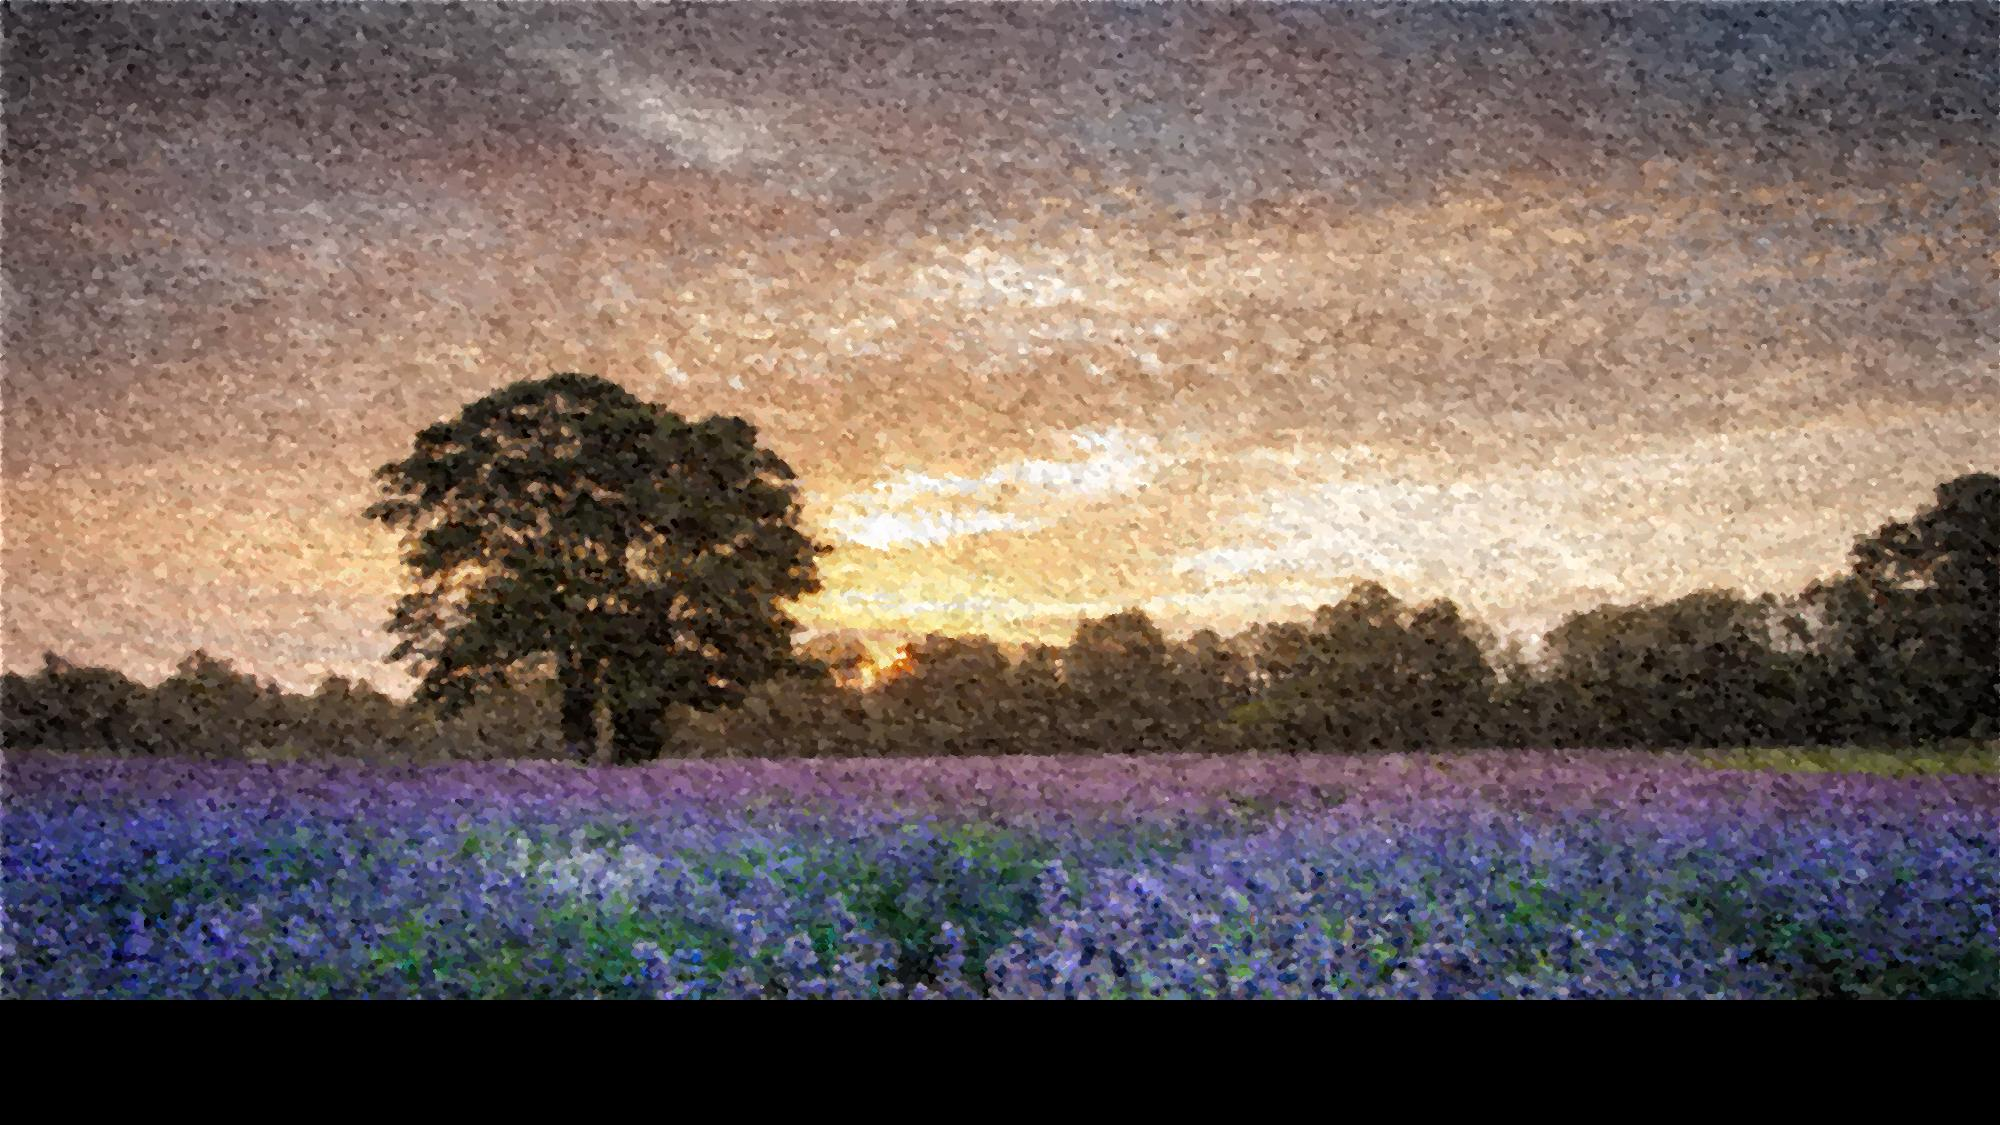
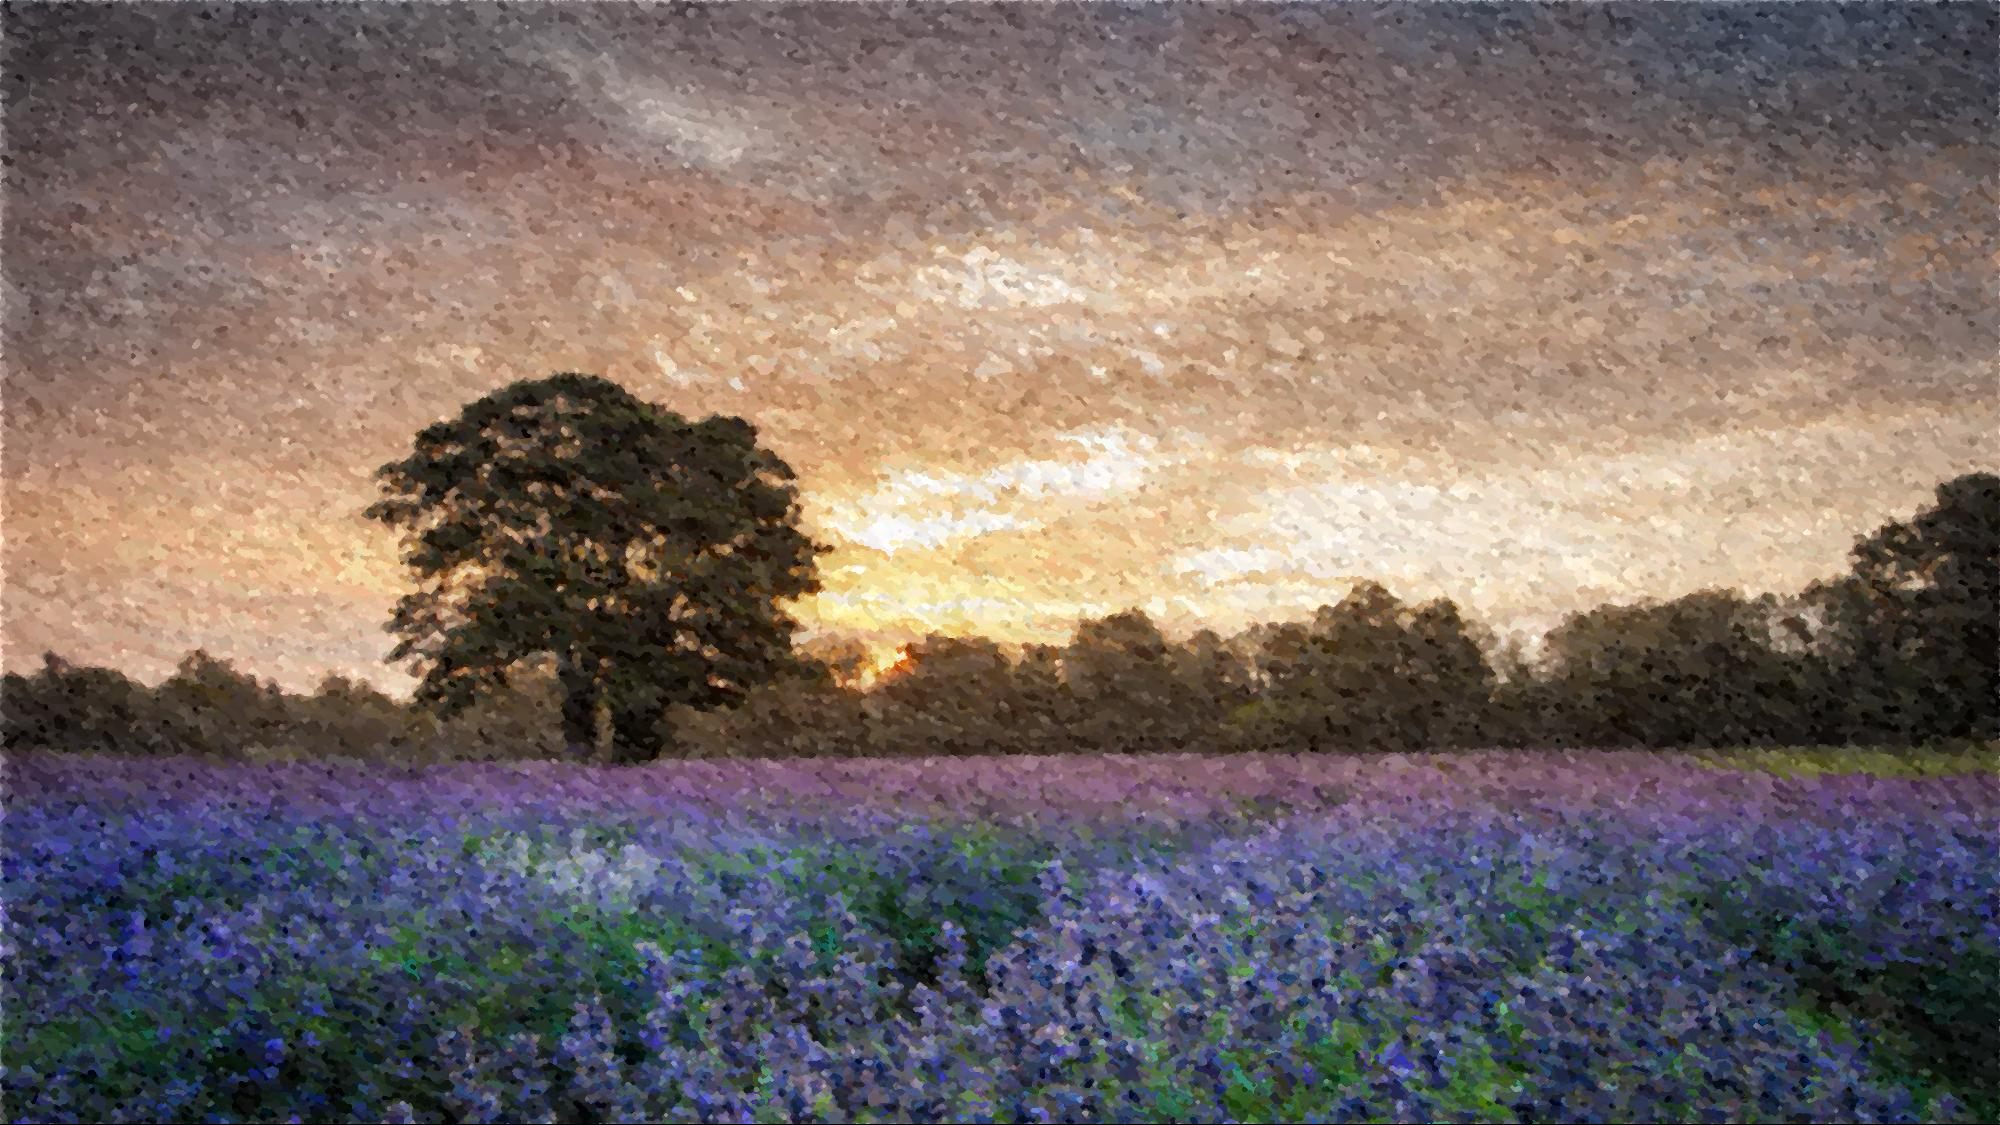
final verison

diff --git a/src/main/java/com/company/FilterParallel.java b/src/main/java/com/company/FilterParallel.java
@@ -3,52 +3,30 @@ package com.company;
 import java.awt.*;
 import java.awt.image.BufferedImage;
 import java.util.*;
-import java.util.List;
 
-/*
- * Author: Shenbaga Prasanna,IT,SASTRA University;
- * Program: Median FilterParallel To Reduce Noice in Image
- * Date: 9/7/2013
- * Logic: Captures the colour of 8 pixels around the target pixel.Including the target pixel there will be 9 pixels.
- *        Isolate the R,G,B values of each pixels and put them in an array.Sort the arrays.Get the Middle value of the array
- *        Which will be the Median of the color values in those 9 pixels.Set the color to the Target pixel and move on!
- */
+
 public class FilterParallel implements MedianFilter {
 
+    private Stopwatch stopwatch = new Stopwatch();
     private BufferedImage imageMain;
-    private int white;
-    private int black;
     private int imgWidth;
     private int imgHeight;
     private int threads;
-    private List<BufferedImage> subImages;
+    private BufferedImage[] subImages;
 
     public FilterParallel(BufferedImage imageMain, int threads) {
         this.imageMain = imageMain;
-        this.threads = threads;
         this.imgHeight = imageMain.getHeight();
         this.imgWidth = imageMain.getWidth();
-        this.subImages = new ArrayList<BufferedImage>(Collections.nCopies(threads, null));
+        this.threads = (threads < imgHeight) ? threads : imgHeight;
+        this.subImages = new BufferedImage[this.threads];
     }
 
-    public FilterParallel(BufferedImage imageMain, int threads, int white, int black) {
-        this.imageMain = imageMain;
-        this.white = white;
-        this.black = black;
-        this.threads = threads;
-        this.imgHeight = imageMain.getHeight();
-        this.imgWidth = imageMain.getWidth();
-        this.subImages = new ArrayList<BufferedImage>(Collections.nCopies(threads, null));
-    }
-
-    //dont know if correct dimensions
     public BufferedImage filterWithMedian() {
-        int subHeight = imageMain.getHeight() / threads;
+
+        int subHeight = imageMain.getHeight() / threads;   //max height of a subImg
         MedianFilterThread[] workers = new MedianFilterThread[threads];
-
-        int totalHeight = imageMain.getHeight();
-        int totalWidth = imageMain.getWidth();
-
+        //create all the threads and start them
         for (int i = 0; i < threads; i++) {
             int startHeight = subHeight * i;
             BufferedImage subImg = imageMain.getSubimage(0, startHeight, this.imgWidth, subHeight);
@@ -56,6 +34,7 @@ public class FilterParallel implements MedianFilter {
             workers[i].start();
         }
 
+        //wait for all threads
         for (MedianFilterThread worker : workers) {
             try {
                 worker.join();
@@ -65,19 +44,23 @@ public class FilterParallel implements MedianFilter {
             }
         }
 
-        //concatonate al the subimages
+
+        return concatenateImage(subImages);
+    }
+
+    private BufferedImage concatenateImage(BufferedImage[] subImages) {
         int heightCurr = 0;
         BufferedImage concatImage = new BufferedImage(imgWidth, imgHeight, BufferedImage.TYPE_INT_RGB);
         Graphics2D g2d = concatImage.createGraphics();
-        for (int j = 0; j < subImages.size(); j++) {
-            BufferedImage si = subImages.get(j);
-            g2d.drawImage(subImages.get(j), 0, heightCurr, null);
-            heightCurr += subImages.get(j).getHeight();
+        for (int j = 0; j < subImages.length; j++) {
+            g2d.drawImage(subImages[j], 0, heightCurr, null);
+            heightCurr += subImages[j].getHeight();
         }
         g2d.dispose();
 
         return concatImage;
     }
+
 
     class MedianFilterThread extends Thread {
 
@@ -116,7 +99,7 @@ public class FilterParallel implements MedianFilter {
                     this.subImg.setRGB(i, j, calcMedianPixel(i, j));
                 }
             }
-            subImages.set(this.id, this.subImg);
+            subImages[this.id] = this.subImg;
         }
 
         private int calcMedianPixel(int i, int j) {

diff --git a/src/main/java/com/company/csp/client/FilterClient.java b/src/main/java/com/company/csp/client/FilterClient.java
@@ -22,19 +22,20 @@ public class FilterClient {
     public static void main(String[] args) throws Throwable{
         System.setProperty("org.apache.activemq.SERIALIZABLE_PACKAGES","*");
 
-        String photo = (args[0] != null) ? args[0] : "yen110.jpg";
-        int threads = (args[1] != null) ? Integer.parseInt(args[1]) : 10;
+        //check if parameters were given
+        String photoPath = (args.length > 0)? args[0] : "./photos/noisy/landscape.jpg";
+        int threads = (args.length > 1) ? Integer.parseInt(args[1]) : 200;
 
-        File f = new File("./photos/noisy/" + photo);        //Input Photo File
+        File f = new File(photoPath);        //Input Photo File
         BufferedImage mainImageOriginal = ImageIO.read(f);
 
         stopwatch.start();
         BufferedImage mainImageAltered = alterImage(mainImageOriginal);
 
-        BufferedImage[] subImages = new BufferedImage[threads];
-        BufferedImage[] filteredSubImages = cutImages(mainImageAltered, threads);
+        BufferedImage[] subImages = cutImages(mainImageAltered, threads);
+        BufferedImage[] filteredSubImages = new BufferedImage[threads];
 
-
+        System.out.println("finished preparations, " + stopwatch.getDuration());
         try {
 
             // Create a ConnectionFactory
@@ -66,7 +67,7 @@ public class FilterClient {
                 producer.send(objMessage);
             }
 
-            System.out.println("waiting for response");
+            System.out.println("waiting for response " + stopwatch.getDuration());
             // Wait for the returning message
             int k = 0;
             while( k++ < threads) {
@@ -79,7 +80,7 @@ public class FilterClient {
                     BufferedImage receivedSubImage = converter.byteToImage(receivedMsg.getSubImage());
                     filteredSubImages[receivedMsg.getId()] = receivedSubImage;
 
-                    System.out.println("received: " + receivedMsg.toString());
+                    //System.out.println("received: " + receivedMsg.toString());
 
                 } else {
                     throw new IllegalArgumentException("Unexpected message " + message);
@@ -97,7 +98,7 @@ public class FilterClient {
                 heightCurr += filteredSubImages[j].getHeight();
             }
 
-            System.out.println("finished filter for photo " + photo + "\n" +
+            System.out.println("finished filter for photo " + photoPath + "\n" +
                     "It took " + stopwatch.getDuration() + " microSeconds to finish with " + threads + " threads");
 
             // Clean up
@@ -141,8 +142,8 @@ public class FilterClient {
 
 
     public static BufferedImage[] cutImages(BufferedImage img, int threads) {
-        int subHeight = img.getHeight() / threads;
-
+        int subHeight = (img.getHeight() - 2) / threads;
+        System.out.println("image height: " + img.getHeight() + " subHeight: " + subHeight);
         BufferedImage[] filteredSubImages = new BufferedImage[threads];
         for(int i = 0; i < threads; i++) {
             int startHeight = subHeight * i + 1;

diff --git a/src/main/java/com/company/csp/processor/FilterProcessor.java b/src/main/java/com/company/csp/processor/FilterProcessor.java
@@ -41,23 +41,23 @@ public class FilterProcessor {
             MessageConsumer consumer = session.createConsumer(in);
             MessageProducer producer = session.createProducer(out);
 
-            ObjectMapper mapper = new ObjectMapper();
-
             while(true) {
                 // Wait for a message
                 Message message = consumer.receive();
-                System.out.println("received subImage to process");
+
                 if (message instanceof ActiveMQObjectMessage) {
                     ObjectMessage objMessage = (ObjectMessage) message;
                     MedianSend receivedMsg = (MedianSend) objMessage.getObject();
 
+                    //create thread for image
                     ThreadManager tm = new ThreadManager(session, producer);
                     BufferedImage receivedSubImage = converter.byteToImage(receivedMsg.getSubImage());
                     tm.createThread(receivedMsg.getId(), receivedSubImage);
-
+                    System.out.println();
                 } else {
                     throw new IllegalArgumentException("Unexpected message " + message);
                 }
+
             }
 
         } catch (JMSException | IOException e) {
@@ -66,6 +66,7 @@ public class FilterProcessor {
 
     }
 
+    //is responsible for creating a thread and returning the filtered image to the client
     static class ThreadManager implements FilterListener {
         private Session session;
         private MessageProducer producer;
@@ -92,7 +93,6 @@ public class FilterProcessor {
 
                 ObjectMessage objMessage = session.createObjectMessage(msgReturn);
                 this.producer.send(objMessage);
-                System.out.println("message sent: " + msgReturn.toString());
             } catch(JMSException | IOException e) {
                 System.out.println(e);
             }

diff --git a/src/main/java/com/company/Test.java b/src/main/java/com/company/Test.java
@@ -8,19 +8,19 @@ import java.util.ArrayList;
 
 public class Test {
     public static Stopwatch stopwatch = new Stopwatch();
-    public static final String PHOTO = "yenn110.jpg";
 
-    public static final int WHITE = new Color(240, 240, 240).getRGB();
-    public static final int BLACK = new Color(15, 15, 15).getRGB();
-    public static final int TEST_CASES = 20;
+    public static final String PHOTO = "landscape.jpg"; //photo to filter, found in photos/noisy
+    public static final int TEST_CASES = 40; // how many times the algorithm has to run for a performance metric
 
-    public static final boolean TEST = true;
-    public static final int THREADS = 200;
+    //test serial implementation
+    public static final boolean TEST = false;
 
-    public static final boolean MULTITHREAD_TEST = false;
-    public static final int[] TEST_THREADS = {1, 2, 4, 8, 16, 50, 100, 200};
+    //test (new) parallel implementation
+    public static final boolean MULTITHREAD_TEST = true;
+    public static final int[] TEST_THREADS = {1, 2};   //which thread amounts to test
 
     public static final int OUTPUT = 2; //what kind of image output, 1: serial, 2: parallel, 3: both
+    public static final int THREADS = 2;  //thread amount for parallel output
 
     public static void main(String[] a) throws Throwable {
 
@@ -31,8 +31,7 @@ public class Test {
         FilterSerial filterSer = new FilterSerial(img);
 
         if(TEST) {
-            System.out.println("Old Parallel 200 threads: " + testPerformance(new FilterParallel(img, THREADS)));
-//            System.out.println("Serial: " + testPerformance(filterSer));
+            System.out.println("Serial: " + testPerformance(filterSer));
         }
 
         if(MULTITHREAD_TEST) {

diff --git a/src/main/java/com/company/FilterParallelOld.java b/src/main/java/com/company/FilterParallelOld.java
@@ -1,20 +1,11 @@
 package com.company;
 
-import javax.imageio.ImageIO;
 import java.awt.Color;
 import java.awt.image.BufferedImage;
-import java.io.File;
 import java.util.Arrays;
 import java.util.Comparator;
 
-/*
- * Author: Shenbaga Prasanna,IT,SASTRA University;
- * Program: Median FilterParallel To Reduce Noice in Image
- * Date: 9/7/2013
- * Logic: Captures the colour of 8 pixels around the target pixel.Including the target pixel there will be 9 pixels.
- *        Isolate the R,G,B values of each pixels and put them in an array.Sort the arrays.Get the Middle value of the array
- *        Which will be the Median of the color values in those 9 pixels.Set the color to the Target pixel and move on!
- */
+
 public class FilterParallelOld implements MedianFilter {
 
     private BufferedImage image;

diff --git a/src/main/java/com/company/FilterSerial.java b/src/main/java/com/company/FilterSerial.java
@@ -7,6 +7,7 @@ import java.util.Comparator;
 
 public class FilterSerial implements MedianFilter{
 
+    private Stopwatch stopwatch = new Stopwatch();
     private BufferedImage image;
     private int white;
     private int black;
